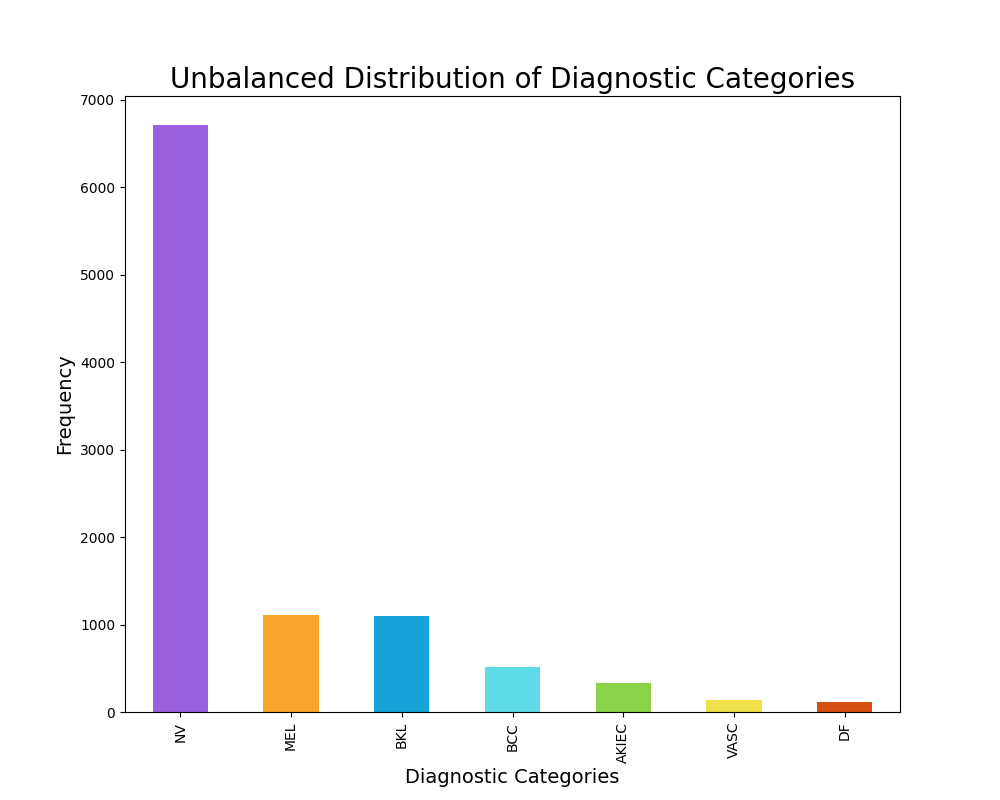
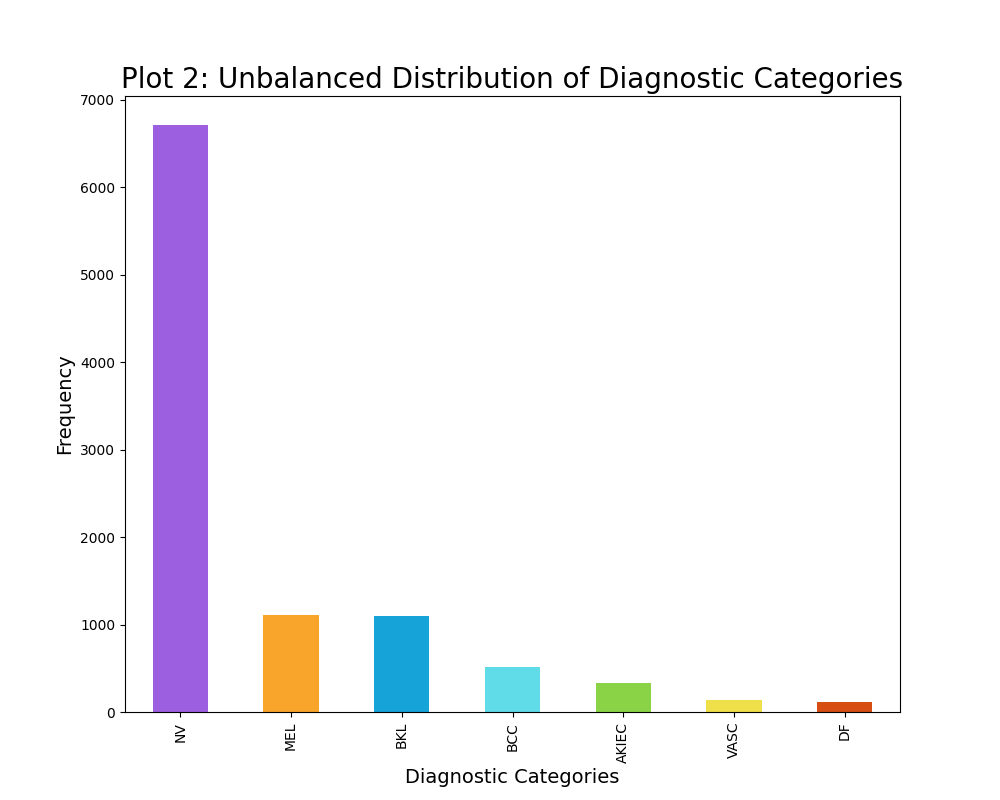
new

Changed region(s): [[0.124, 0.0625, 0.899, 0.125]]

diff --git a/src/plot.py b/src/plot.py
@@ -40,7 +40,7 @@ plt.rcParams["figure.figsize"] = [10, 10]
 plt.rcParams["figure.autolayout"] = False
 #### PLOTTING EACH IMAGE ####
 plt.subplot(3, 3, 1)
-plt.title("Diagnostic Categories of Skin Cancer")
+plt.title("Plot 1: Diagnostic Categories of Skin Cancer")
 plt.imshow(plt.imread(samples['image'].iloc[0]))
 plt.title(samples['label'].iloc[0])
 plt.subplot(3, 3, 2)
@@ -75,7 +75,7 @@ plt.close()
 ax = df['label'].value_counts().plot(kind='bar',
                                     figsize=(10,8),
                                     color=['#9b5fe0','#f9a52c', '#16a4d8', '#60dbe8', '#8bd346', '#efdf48', '#d64e12' ])
-ax.set_title("Unbalanced Distribution of Diagnostic Categories", fontsize=20)
+ax.set_title("Plot 2: Unbalanced Distribution of Diagnostic Categories", fontsize=20)
 ax.set_xlabel("Diagnostic Categories", fontsize=14)
 ax.set_ylabel("Frequency",fontsize=14)
 plt.show()
@@ -87,7 +87,7 @@ plt.close()
 ax = lil_df['label'].value_counts().plot(kind='bar',
                                     figsize=(10,8),
                                     color=['#9b5fe0','#f9a52c', '#16a4d8', '#60dbe8', '#8bd346', '#efdf48', '#d64e12' ])
-ax.set_title("Balanced Distribution of Diagnostic Categories", fontsize=20)
+ax.set_title("Plot 3: Balanced Distribution of Diagnostic Categories", fontsize=20)
 ax.set_xlabel("Diagnostic Categories", fontsize=14)
 ax.set_ylabel("Frequency", fontsize=14)
 plt.show()

diff --git a/README.md b/README.md
@@ -35,8 +35,14 @@ For this final project I have used the *HAM10000 dataset* ("Human Against Machin
 ![Diagnostic Categories of Skin Cancer](sample_pngs/diagnostic_categories.png)
 
 
+The distribution of the diagnostic categories of skin cancer was intitially rather unbalanced, as seen from plot 1. Thus, a maximum limit of 500 samples per diagnostic category was established, although some categories had less than 500 data points. This resulted in a slightly more balanced dataset, however it is not completely balanced out as visually evident from plot 2. 
 
-The distribution of data within 
+![Unbalanced data](sample_pngs/unbalanced_distribution.png)
+
+![Balanced Data](sample_pngs/balanced_distribution.png)
+
+
+
 
 
 <br>
